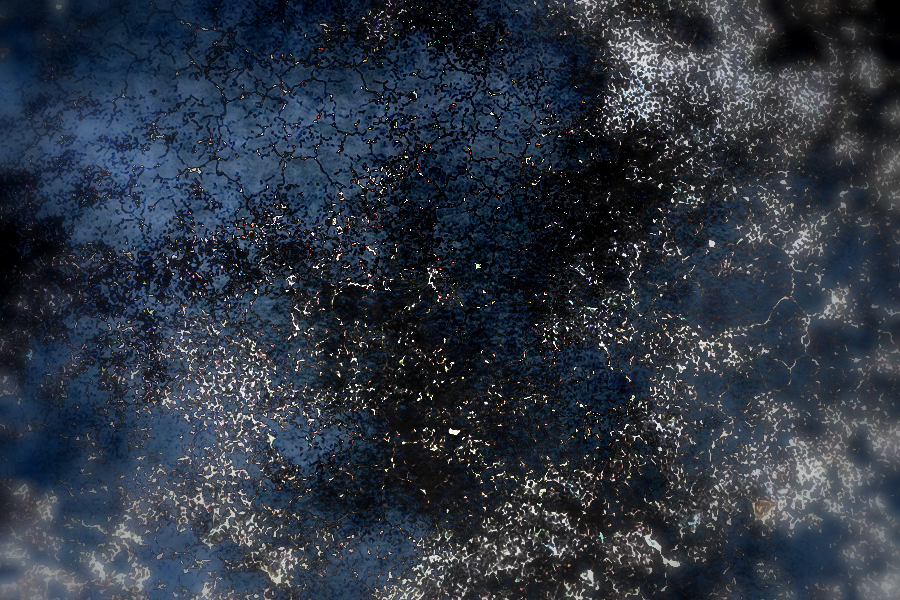
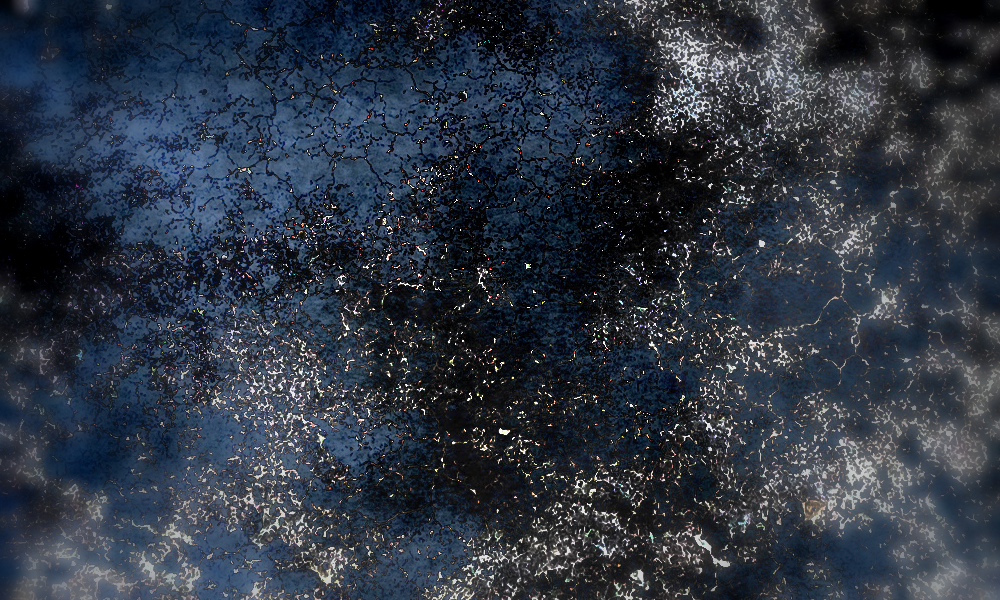
画像のサイズを変更

diff --git a/src/app/app.component.html b/src/app/app.component.html
@@ -1,2 +1,2 @@
-<canvas #canvas id="canvas" width="900" height="600"></canvas>
+<canvas #canvas id="canvas" width="1000" height="600"></canvas>
 <!-- <button (click)="downloadClick()">download</button> -->
